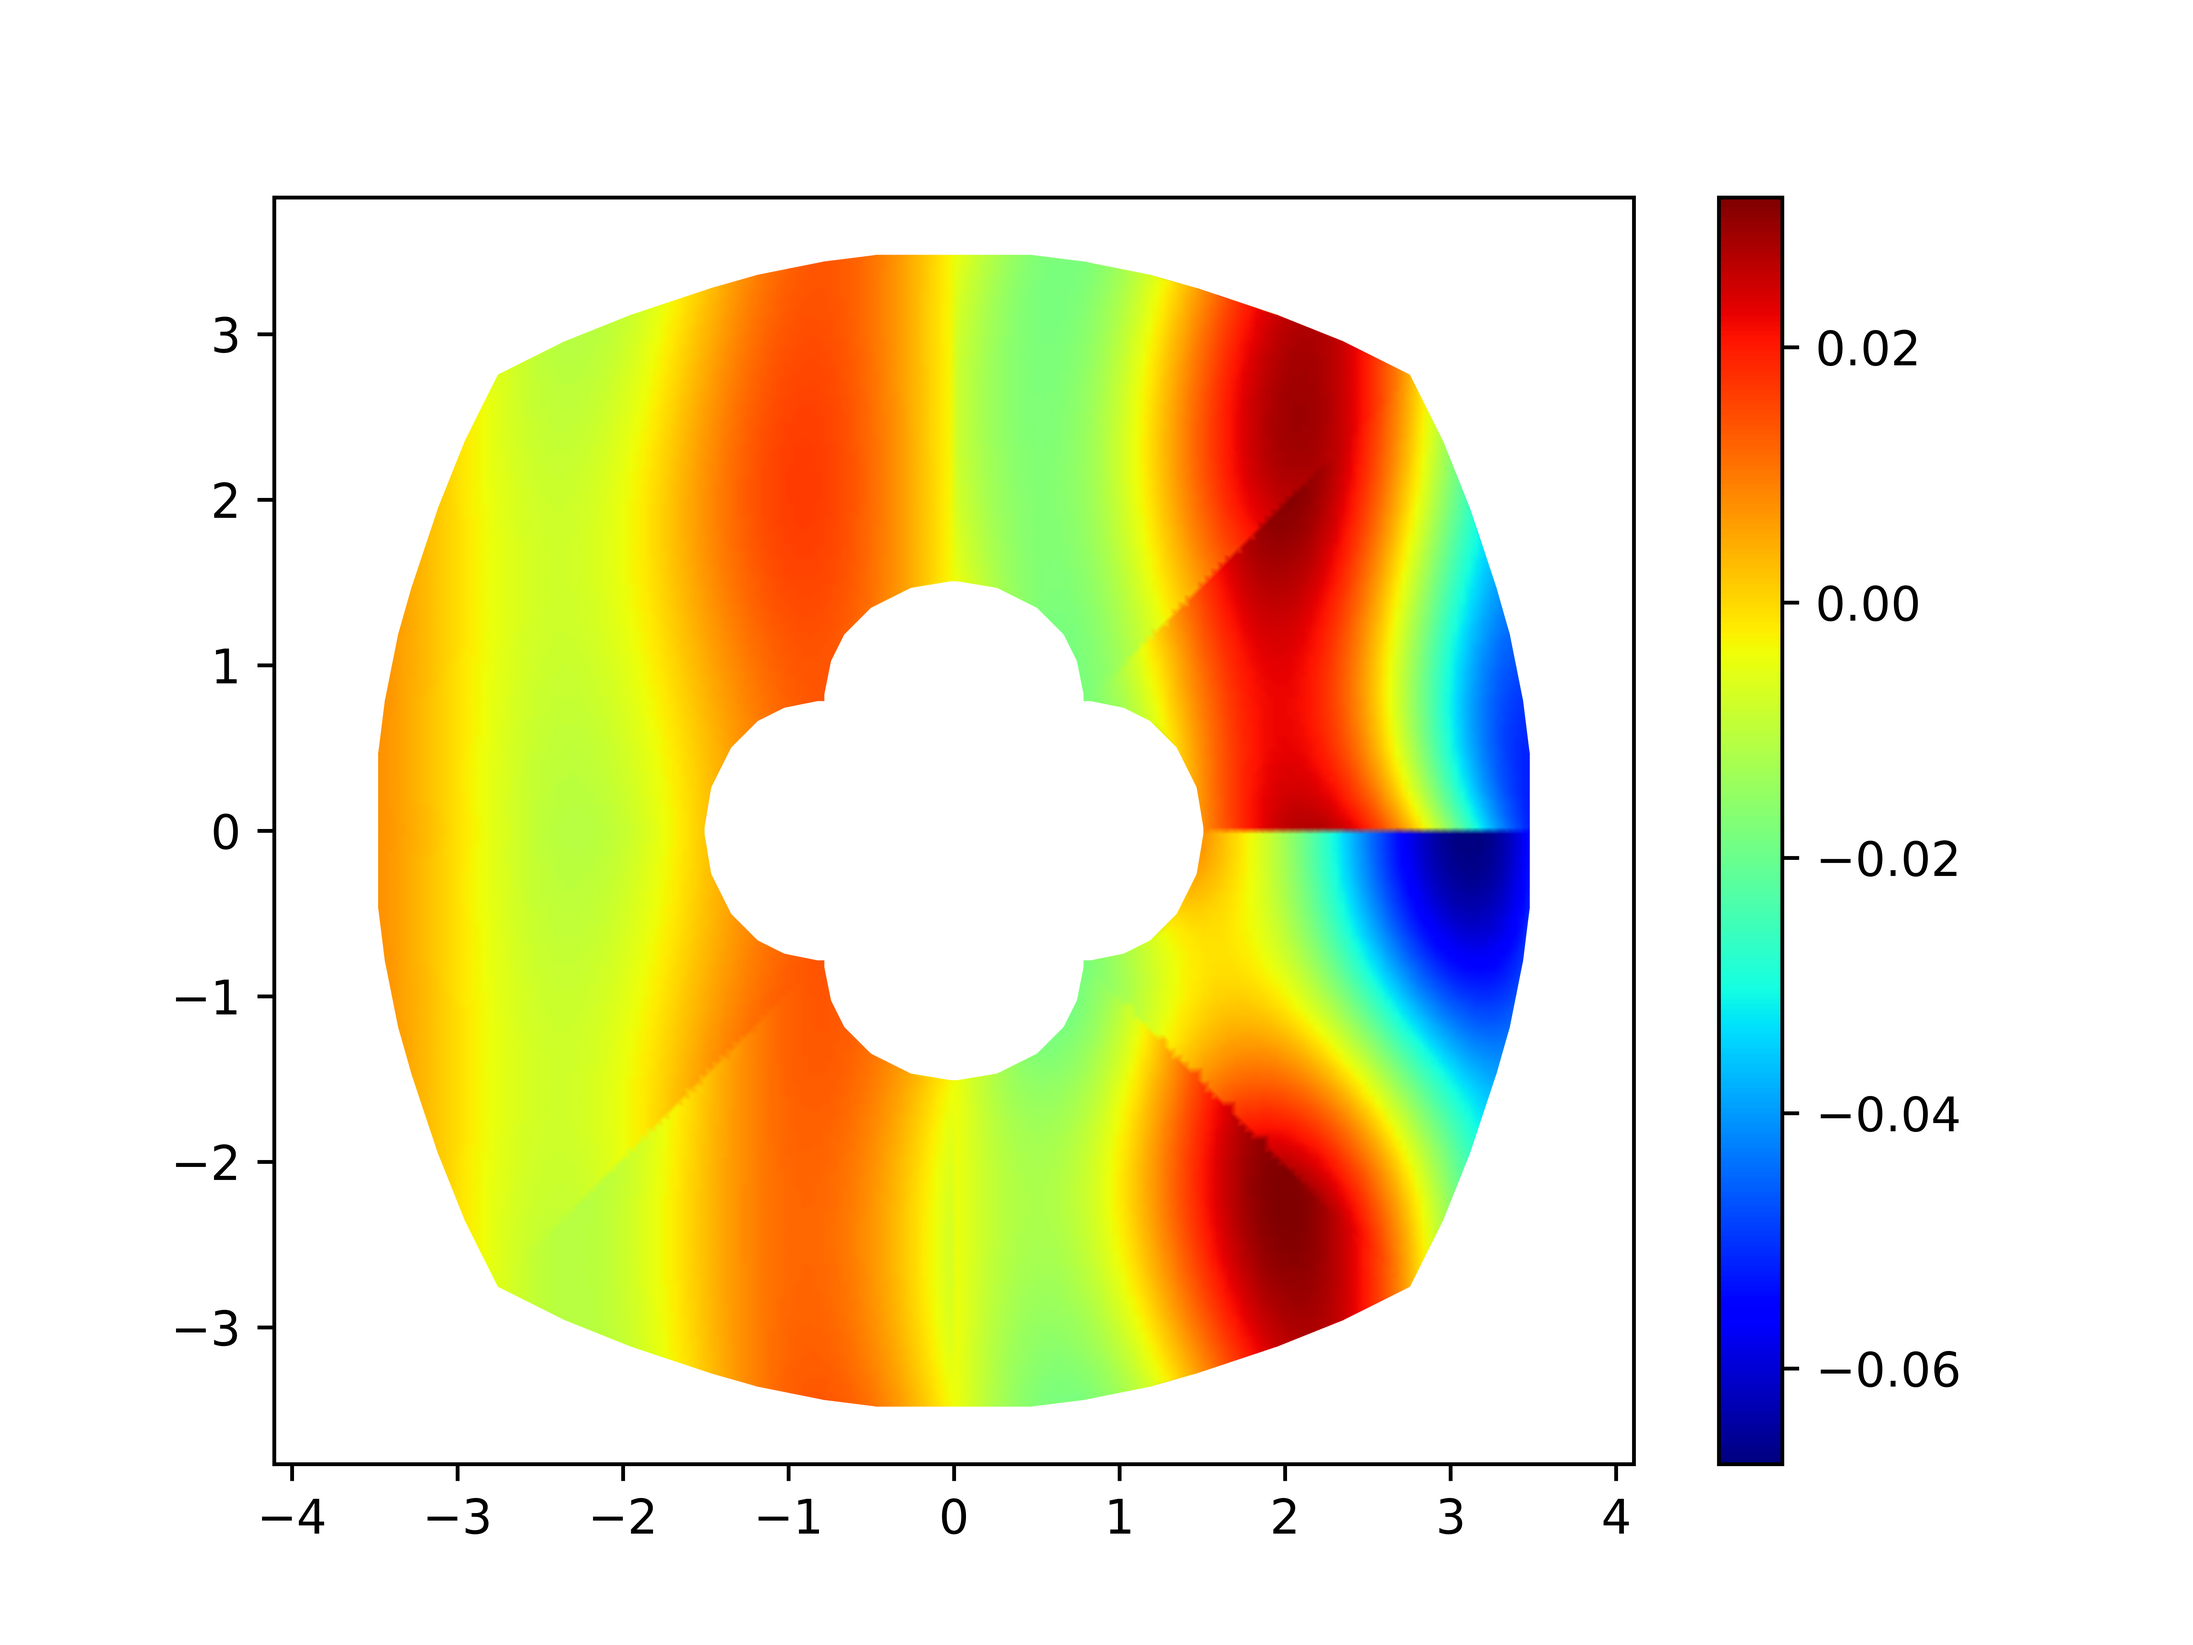
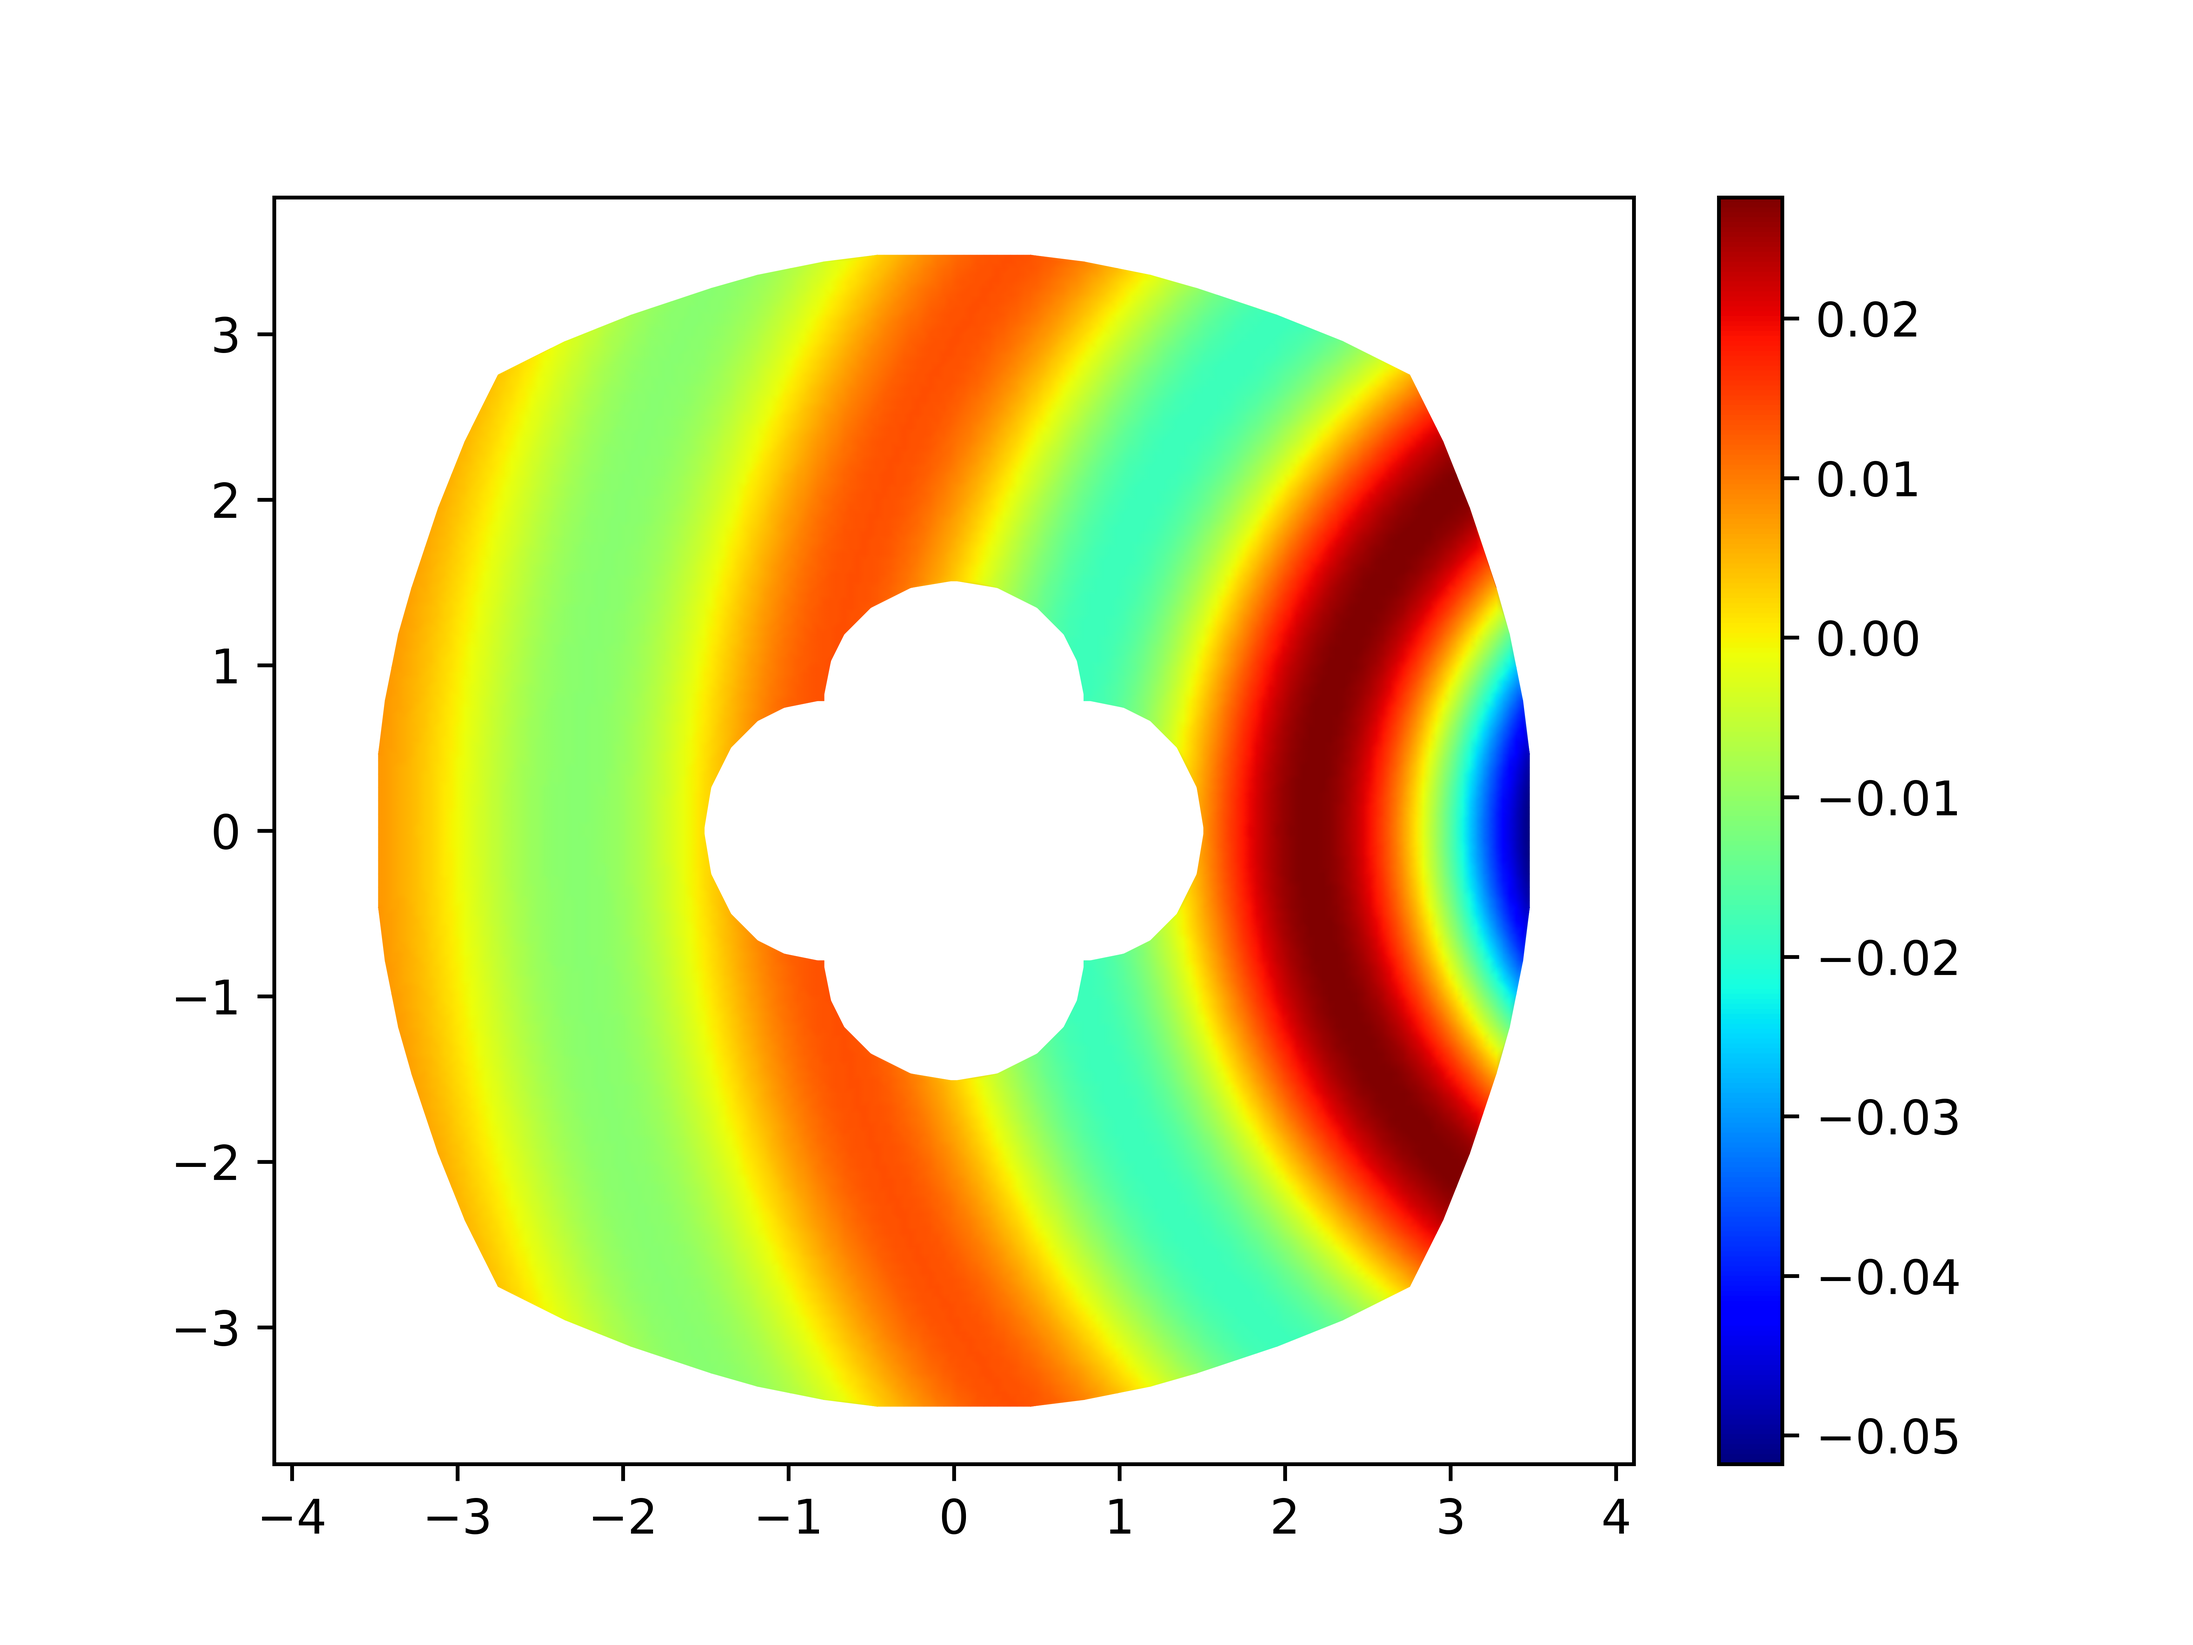
edits to twistedTorus

diff --git a/test/3D/twistedTorus.py b/test/3D/twistedTorus.py
@@ -54,9 +54,9 @@ wavelength = 4/nwaves
 kh = (nwaves/4)*2.*np.pi
 kh = 2.15
 # What to modify to use the Jax-based hps ("hps") or Torch-based ("hpsalt")
-jax_avail   = False
-torch_avail = True
-hpsalt      = True
+jax_avail   = True
+torch_avail = False
+hpsalt      = False
 
 
 if jax_avail:
@@ -72,30 +72,22 @@ param_geom=twisted.param_geom(jax_avail=jax_avail, torch_avail=torch_avail, hpsa
 pdo_mod = param_geom.transform_helmholtz_pdo(bfield,kh)
 
 def bc(p):
-    zz=np.zeros(shape = p.shape)
-    zz[:,0] = twisted.z1(p,jax_avail,torch_avail)
-    zz[:,1] = twisted.z2(p,jax_avail,torch_avail)
-    zz[:,2] = twisted.z3(p,jax_avail,torch_avail)
-    rr=np.abs(zz[:,0]-5.)
-    return np.real(np.exp(1j*kh*rr)/(4.*np.pi*rr))
-def bc_np(p):
-    zz=np.zeros(shape = p.shape)
-    zz[:,0] = twisted.z1(p,False,False)
-    zz[:,1] = twisted.z2(p,False,False)
-    zz[:,2] = twisted.z3(p,False,False)
-    rr=np.abs(zz[:,0]-5.)
-    return np.real(np.exp(1j*kh*rr)/(4.*np.pi*rr))
+    z1=twisted.z1(p,jax_avail=jax_avail,torch_avail=torch_avail)
+    z2=twisted.z2(p,jax_avail=jax_avail,torch_avail=torch_avail)
+    z3=twisted.z3(p,jax_avail=jax_avail,torch_avail=torch_avail)
+    rr = np.sqrt((z1-5.)**2+z2**2+z3**2)
+    return np.cos(kh*rr)/(4*np.pi*rr)
 
 
-N = 8
+N = 5
 dSlabs,connectivity,H = twisted.dSlabs(N)
 formulation = "hps"
 solve_method = 'iterative'
 #solve_method = 'direct'
-HBS = True
+HBS = False
 
 #pvec = np.array([4,6,8,10],dtype = np.int32)
-pvec = np.array([6],dtype = np.int32)
+pvec = np.array([6],dtype = np.int64)
 err=np.zeros(shape = (len(pvec),))
 discr_time=np.zeros(shape = (len(pvec),))
 sample_time = np.zeros(shape=(len(pvec),))
@@ -113,7 +105,7 @@ for indp in range(len(pvec)):
     else:
         assembler = mA.denseMatAssembler()
     opts = solverWrap.solverOptions(formulation,[p_disc,p_disc,p_disc],a)
-
+    
     OMS = oms.oms(dSlabs,pdo_mod,lambda p :twisted.gb(p,jax_avail=jax_avail,torch_avail=torch_avail),opts,connectivity)
     S_rk_list, rhs_list, Ntot, nc = OMS.construct_Stot_helper(bc, assembler, dbg=2)
     niter = 0
@@ -123,7 +115,6 @@ for indp in range(len(pvec)):
         Stot,rhstot  = OMS.construct_Stot_and_rhstot_linearOperator(S_rk_list,rhs_list,Ntot,nc,dbg=2)
         gInfo = gmres_info()
         stol = 1e-7*H*H
-
         if Version(scipy.__version__)>=Version("1.14"):
             uhat,info   = gmres(Stot,rhstot,rtol=stol,callback=gInfo,maxiter=1000,restart=1000)
         else:
@@ -146,6 +137,7 @@ for indp in range(len(pvec)):
 
     errInf = 0.
     nc = OMS.nc
+    
 
     nx=200
     ny=200
@@ -158,9 +150,9 @@ for indp in range(len(pvec)):
     ZZ[:,1] = np.kron(np.ones_like(xpts),ypts)
 
     sliceYY = np.zeros(shape=ZZ.shape)
-    sliceYY[:,0] = twisted.y1(ZZ,False)
-    sliceYY[:,1] = twisted.y2(ZZ,False)
-    sliceYY[:,2] = twisted.y3(ZZ,False)
+    sliceYY[:,0] = twisted.y1(ZZ,False,False)
+    sliceYY[:,1] = twisted.y2(ZZ,False,False)
+    sliceYY[:,2] = twisted.y3(ZZ,False,False)
 
 
     I = np.where( (sliceYY[:,0]>=twisted.bnds[0][0]) & (sliceYY[:,0]<=twisted.bnds[1][0]) & (sliceYY[:,1]>=twisted.bnds[0][1]) & (sliceYY[:,1]<=twisted.bnds[1][1]) & (sliceYY[:,2]>=twisted.bnds[0][2]) & (sliceYY[:,2]<=twisted.bnds[1][2]) )[0]
@@ -171,58 +163,40 @@ for indp in range(len(pvec)):
 
 
     sliceZZ = np.zeros(shape=(len(I),3))
-    sliceZZ[:,0] = twisted.z1(YY,False)
-    sliceZZ[:,1] = twisted.z2(YY,False)
-    sliceZZ[:,2] = twisted.z3(YY,False)
+    sliceZZ[:,0] = twisted.z1(YY,False,False)
+    sliceZZ[:,1] = twisted.z2(YY,False,False)
+    sliceZZ[:,2] = twisted.z3(YY,False,False)
 
+    ucheck = np.zeros(shape=(Stot.shape[0],))
+    rhscheck = np.zeros(shape=(Stot.shape[1],))
 
+    XXcprev = np.zeros(shape=(nc,3))
 
-    for slabInd in range(len(connectivity)):
+    for slabInd in range(len(dSlabs)):
         geom    = np.array(dSlabs[slabInd])
         I0 = np.where(  (YY[:,0]>=geom[0,0]) & (YY[:,0]<=geom[1,0]) & (YY[:,1]>=geom[0,1]) & (YY[:,1]<=geom[1,1]) & (YY[:,2]>=geom[0,2]) & (YY[:,2]<=geom[1,2]) )[0]
         YY0 = YY[I0,:]
-        slab_i  = oms.slab(geom,lambda p : twisted.gb(p,jax_avail,torch_avail))
+        slab_i  = oms.slab(geom,lambda p : twisted.gb(p,jax_avail=jax_avail,torch_avail=torch_avail))
         solver  = oms.solverWrap.solverWrapper(opts)
         solver.construct(geom,pdo_mod)
         Il,Ir,Ic,Igb,XXi,XXb = slab_i.compute_idxs_and_pts(solver)
-
         startL = ((slabInd-1)%N)
         startR = ((slabInd+1)%N)
         ul = uhat[startL*nc:(startL+1)*nc]
         ur = uhat[startR*nc:(startR+1)*nc]
-        g = np.zeros(shape=(XXb.shape[0],))
+        print("ul err = ",np.linalg.norm(ul - bc(XXb[Il,:]))/np.linalg.norm(bc(XXb[Il,:])))
+        print("ur err = ",np.linalg.norm(ur - bc(XXb[Ir,:]))/np.linalg.norm(bc(XXb[Ir,:])))
         
-        
-
-
-        g[Il]=bc(XXb[Il,:])
-        g[Ir]=bc(XXb[Ir,:])
-        gl = g[Il]
-        gr = g[Ir]
-        print("ul shape // gl shape = ",ul.shape,"//",gl.shape)
-        print("ur shape // gr shape = ",ur.shape,"//",gr.shape)
-        print("ul err = ",np.linalg.norm(ul-g[Il])/np.linalg.norm(ul))
-        print("ur err = ",np.linalg.norm(ur-g[Ir])/np.linalg.norm(ur))
-
-        g[Igb] = bc(XXb[Igb,:])
-        
-        rhs = solver.Aib @ g
-        print("===================================")
-        ui = -(solver.solver_ii@rhs)
-        uc = ui[Ic]
-        print("uc err = ",np.linalg.norm(uc-bc(XXi[Ic,:]),ord=np.inf))
-
-        g=g[:,np.newaxis]
-        uu = solver.solver.solve_dir_full(torch.from_numpy(g))
-        
-        uu=uu.numpy().flatten()
-        uuhat = bc(solver.XXfull)
-        print("total err = ",np.linalg.norm(uu-uuhat,ord=np.inf))
-        ghat = solver.interp(YY0,uu)
-        print("interp err = ",np.linalg.norm(ghat - bc_np(YY0),np.inf))
-        print("===================================")
+        g = np.zeros(shape=(XXb.shape[0],1))
+        g[Il,0]=ul
+        g[Ir,0]=ur
+        g[Igb,0] = bc(XXb[Igb,:])
+        if hpsalt:
+            g=torch.from_numpy(g)
+        uu = solver.solver.solve_dir_full(g)
+        uu=uu.flatten()
+        ghat = solver.interp(YY0,np.array(uu))
         gYY[I0] = ghat
-    
     #g_ref = np.load('ref_sol.npy')
     #print("err_I = ",np.linalg.norm(g_ref-gYY,ord=np.inf)/np.linalg.norm(g_ref,ord=np.inf))
     #err[indp] = np.linalg.norm(g_ref-gYY,ord=np.inf)/np.linalg.norm(g_ref,ord=np.inf)

diff --git a/test/validation/additivityTest.py b/test/validation/additivityTest.py
@@ -1,0 +1,137 @@
+# basic packages
+import numpy as np
+import jax.numpy as jnp
+import scipy
+from packaging.version import Version
+
+
+# oms packages
+import solver.solver as solverWrap
+import matAssembly.matAssembler as mA
+import multislab.oms as oms
+import multislab.omsdirectsolve as omsdirectsolve
+
+# validation&testing
+import time
+from scipy.sparse.linalg import gmres
+import matplotlib.pyplot as plt
+import geometry.geom_3D.twistedTorus as twisted
+
+import torch
+
+class gmres_info(object):
+    def __init__(self, disp=False):
+        self._disp = disp
+        self.niter = 0
+        self.resList=[]
+    def __call__(self, rk=None):
+        self.niter += 1
+        self.resList+=[rk]
+        if self._disp:
+            print('iter %3i\trk = %s' % (self.niter, str(rk)))
+
+
+jax_avail    = False
+torch_avail  = True
+hpsalt       = True
+direct_solve = True
+
+
+
+
+
+bnds = twisted.bnds
+
+################################################################
+#
+#   SET-UP BVP:         Helmholtz on 3D Annulus
+#   - wave number       (kh)
+#   - bfield            (= kh*ones)
+#   - pdo_mod           (pdo transformed to square)
+#   - BC
+#   - known exact sol.  (u_exact)
+#
+################################################################
+
+nwaves = 1.24
+wavelength = 4/nwaves
+kh = (nwaves/4)*2.*np.pi
+
+if jax_avail:
+    def bfield(p,kh):
+        return -kh*kh*jnp.ones_like(p[...,0])
+elif torch_avail:
+    def bfield(p,kh):
+        return -kh*kh*torch.ones(p.shape[0])
+else:
+    def bfield(p,kh):
+        return -kh*kh*np.ones(shape=(p.shape[0],))
+param_geom=twisted.param_geom(jax_avail=jax_avail, torch_avail=torch_avail, hpsalt=hpsalt)
+pdo_mod = param_geom.transform_helmholtz_pdo(bfield,kh)
+
+
+def bc(p):
+    z1=twisted.z1(p,jax_avail=jax_avail,torch_avail=torch_avail)
+    z2=twisted.z2(p,jax_avail=jax_avail,torch_avail=torch_avail)
+    z3=twisted.z3(p,jax_avail=jax_avail,torch_avail=torch_avail)
+    rr = np.sqrt(z1**2+z2**2+z3**2)
+    return np.cos(kh*rr)/(4*np.pi*rr)
+
+
+N = 8
+dSlabs,connectivity,H = twisted.dSlabs(N)
+
+
+formulation = "hps"
+p = 4
+p_disc = p
+if hpsalt:
+    formulation = "hpsalt"
+    p_disc = p_disc + 2 # To handle different conventions between hps and hpsalt
+a = np.array([H/8.,1/8,1/8])
+assembler = mA.rkHMatAssembler(p*p,50)
+opts = solverWrap.solverOptions(formulation,[p_disc,p_disc,p_disc],a)
+
+for slabInd in range(len(dSlabs)):
+    geom    = np.array(dSlabs[slabInd])
+    slab_i  = oms.slab(geom,lambda p : twisted.gb(p,jax_avail=jax_avail,torch_avail=torch_avail))
+    solver  = oms.solverWrap.solverWrapper(opts)
+    solver.construct(geom,pdo_mod)
+    Il,Ir,Ic,Igb,XXi,XXb = slab_i.compute_idxs_and_pts(solver)
+    g1 = np.zeros(shape=(XXb.shape[0],))
+    g2 = np.zeros(shape=(XXb.shape[0],))
+    g3 = np.zeros(shape=(XXb.shape[0],))
+    gtot = np.zeros(shape=(XXb.shape[0],))
+    gl=bc(XXb[Il,:])
+    gr=bc(XXb[Ir,:])
+    gb = bc(XXb[Igb,:])
+
+    gl = np.array(gl)
+    gr = np.array(gr)
+    gb = np.array(gb)
+
+
+    g1[Il] = gl
+    g2[Ir] = gr
+    g3[Igb] = gb
+
+    gtot[Il] = gl
+    gtot[Ir] = gr
+    gtot[Igb] = gb
+
+    Aib = np.array(solver.Aib.todense())
+
+    u1 = -solver.solver_ii@(Aib@g1)
+    u2 = -solver.solver_ii@(Aib@g2)
+    u3 = -solver.solver_ii@(Aib@g3)
+    utot = -solver.solver_ii@(Aib@gtot)
+
+
+    Sl = -(solver.solver_ii@(Aib[:,Il]))[Ic,:]
+    Sr = -(solver.solver_ii@(Aib[:,Ir]))[Ic,:]
+
+    rhs = u3[Ic]
+    uc = utot[Ic]
+
+    print("additivity = ",np.linalg.norm(-Sl@gl-Sr@gr+uc-rhs)/np.linalg.norm(utot))
+

diff --git a/solver/HPSInterp.py b/solver/HPSInterp.py
@@ -5,14 +5,14 @@ import tensorly.tenalg as tenalg
 import solver.spectralmultidomain.hps.cheb_utils as cheb
 import matplotlib.pyplot as plt
 
-def interp(solver,p,f):
+def interp(solver,p,f,typestr):
 
     if solver.ndim==2:
         
-        return interp_2d(solver,p,f)
+        return interp_2d(solver,p,f,typestr)
     elif solver.ndim==3:
         
-        return interp_3d(solver,p,f)
+        return interp_3d(solver,p,f,typestr)
     else:
         raise ValueError("ndim must be 2 or 3")
     
@@ -29,7 +29,7 @@ def interp_2d(solver,pts,f):
         g[I] = local_interp_2d(pts[I,:],f[J],XX,box,ord)
     return g
 
-def interp_3d(solver,pts,f):
+def interp_3d(solver,pts,f,typestr):
     g = np.zeros(shape=(pts.shape[0],))
     npan_dim = solver.npan_dim
     boxes = construct_boxes_3d(npan_dim,solver.geom)
@@ -38,7 +38,7 @@ def interp_3d(solver,pts,f):
         I = idxs_3d(pts,box)
         J = idxs_3d(solver._XXfull,box)
         XX = solver._XXfull[J,:]
-        g[I] = local_interp_3d(pts[I,:],f[J],XX,box,ord)
+        g[I] = local_interp_3d(pts[I,:],f[J],XX,box,ord,typestr)
     return g
 
 
@@ -147,8 +147,13 @@ def chebInterpFromSamples(xpts,ff,targetpts):
     coeffs[-1,:]  /= 2
     return np.polynomial.chebyshev.chebval(aT(targetpts), coeffs)
 
-def local_interp_3d(pts,f,XX,box,ord0):
-    ord = [ord0[0],ord0[1],ord0[2]]
+def local_interp_3d(pts,f,XX,box,ord0,typestr):
+    if typestr=='hps':
+        ord = [ord0[0]+2,ord0[1]+2,ord0[2]+2]
+    elif typestr=='hpsalt':
+        ord = [ord0[0],ord0[1],ord0[2]]
+    else:
+        raise ValueError("solver type not recognized")
     _,I0  = np.unique(XX.round(decimals=10),axis=0,return_index=True)
     f0      = f[I0]
     F = np.reshape(f0,shape=(ord[0],ord[1],ord[2]))

diff --git a/solver/solver.py b/solver/solver.py
@@ -164,9 +164,9 @@ class solverWrapper:
     #given values f on the full solver grid, interpolate f to the points x
     def interp(self,pts,f):
         if self.type=='hps':
-            return interp.interp(self.solver,pts,f)
+            return interp.interp(self.solver,pts,f,'hps')
         elif self.type == 'hpsalt':
-            return interp.interp(self.solver,pts,f)
+            return interp.interp(self.solver,pts,f,'hpsalt')
         else:
             raise ValueError("interp not implemented yet")
 
